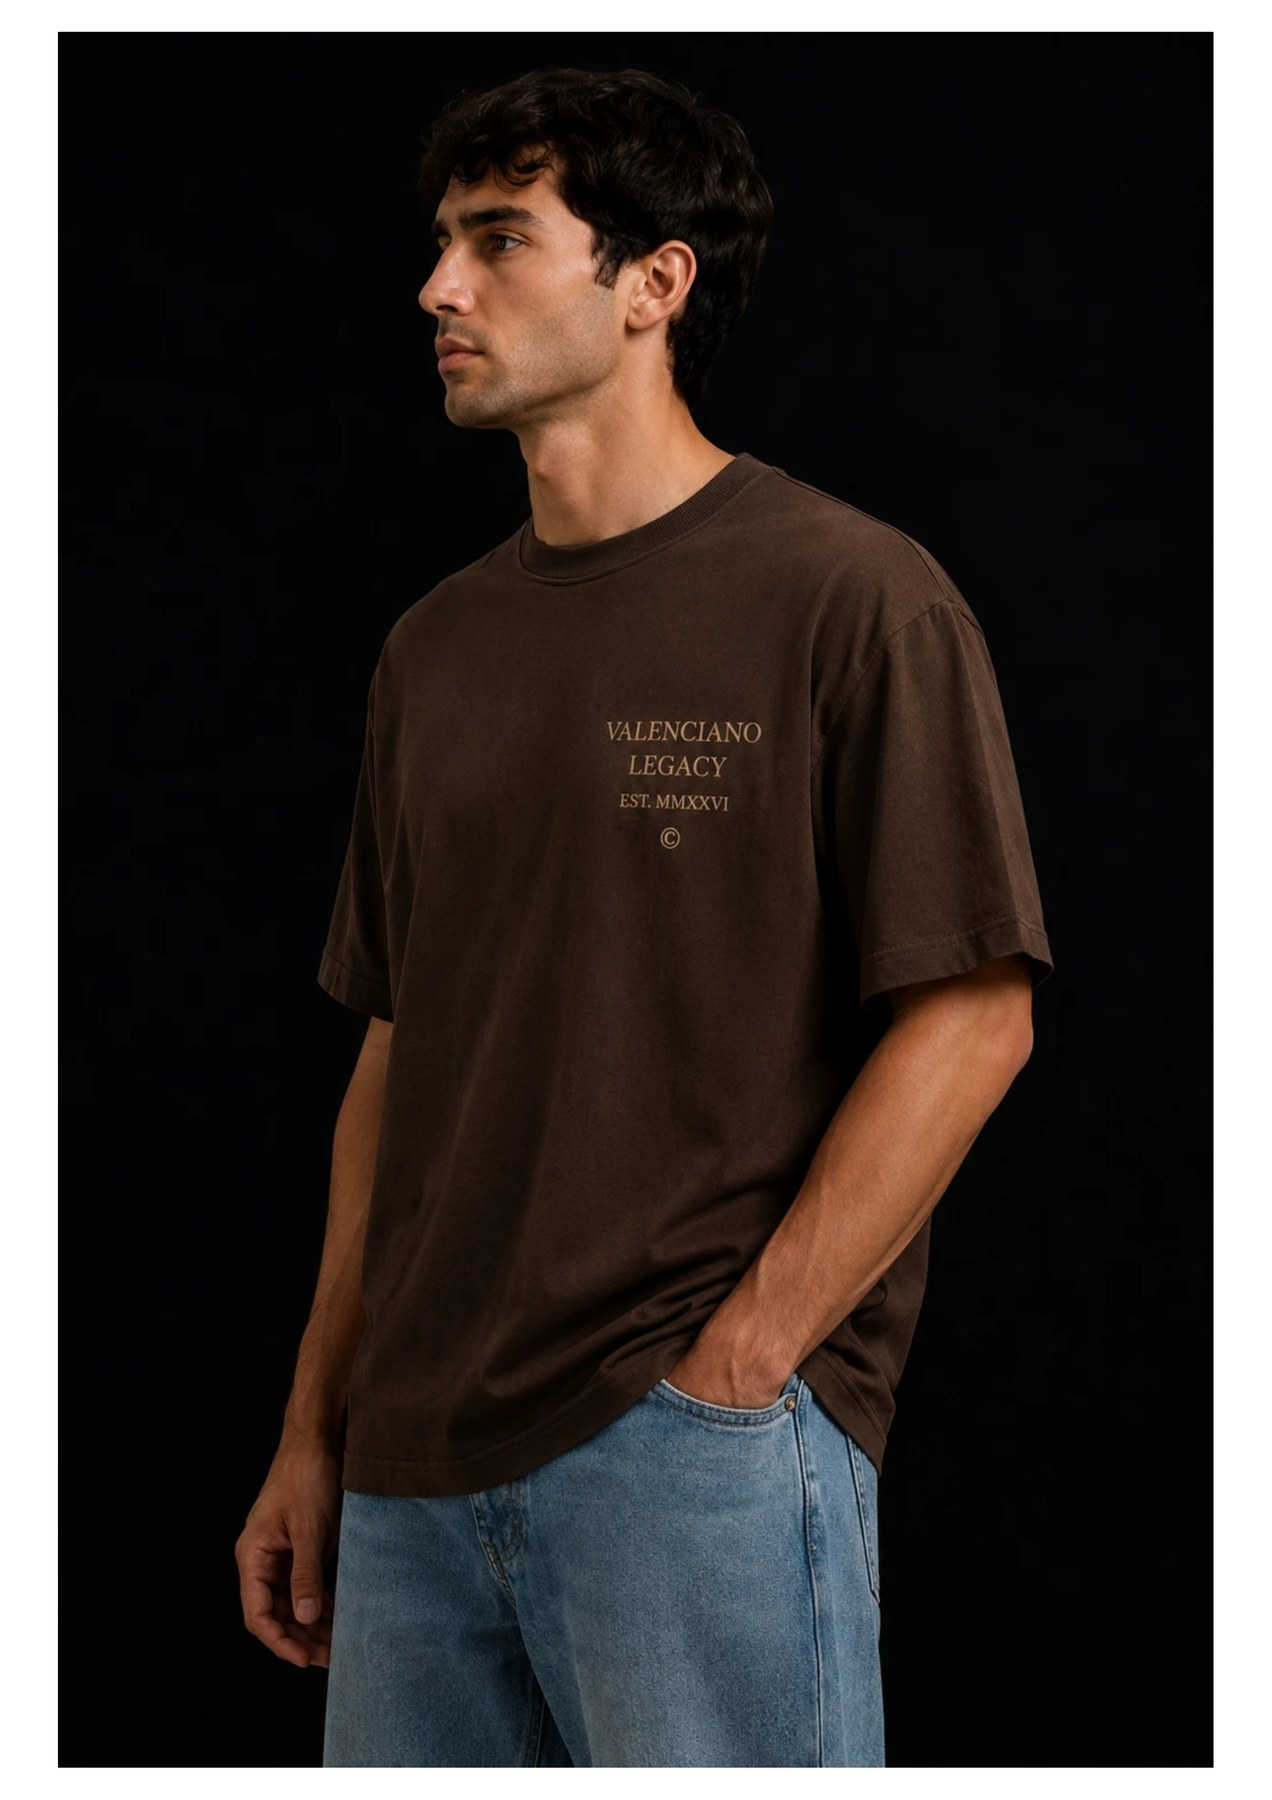
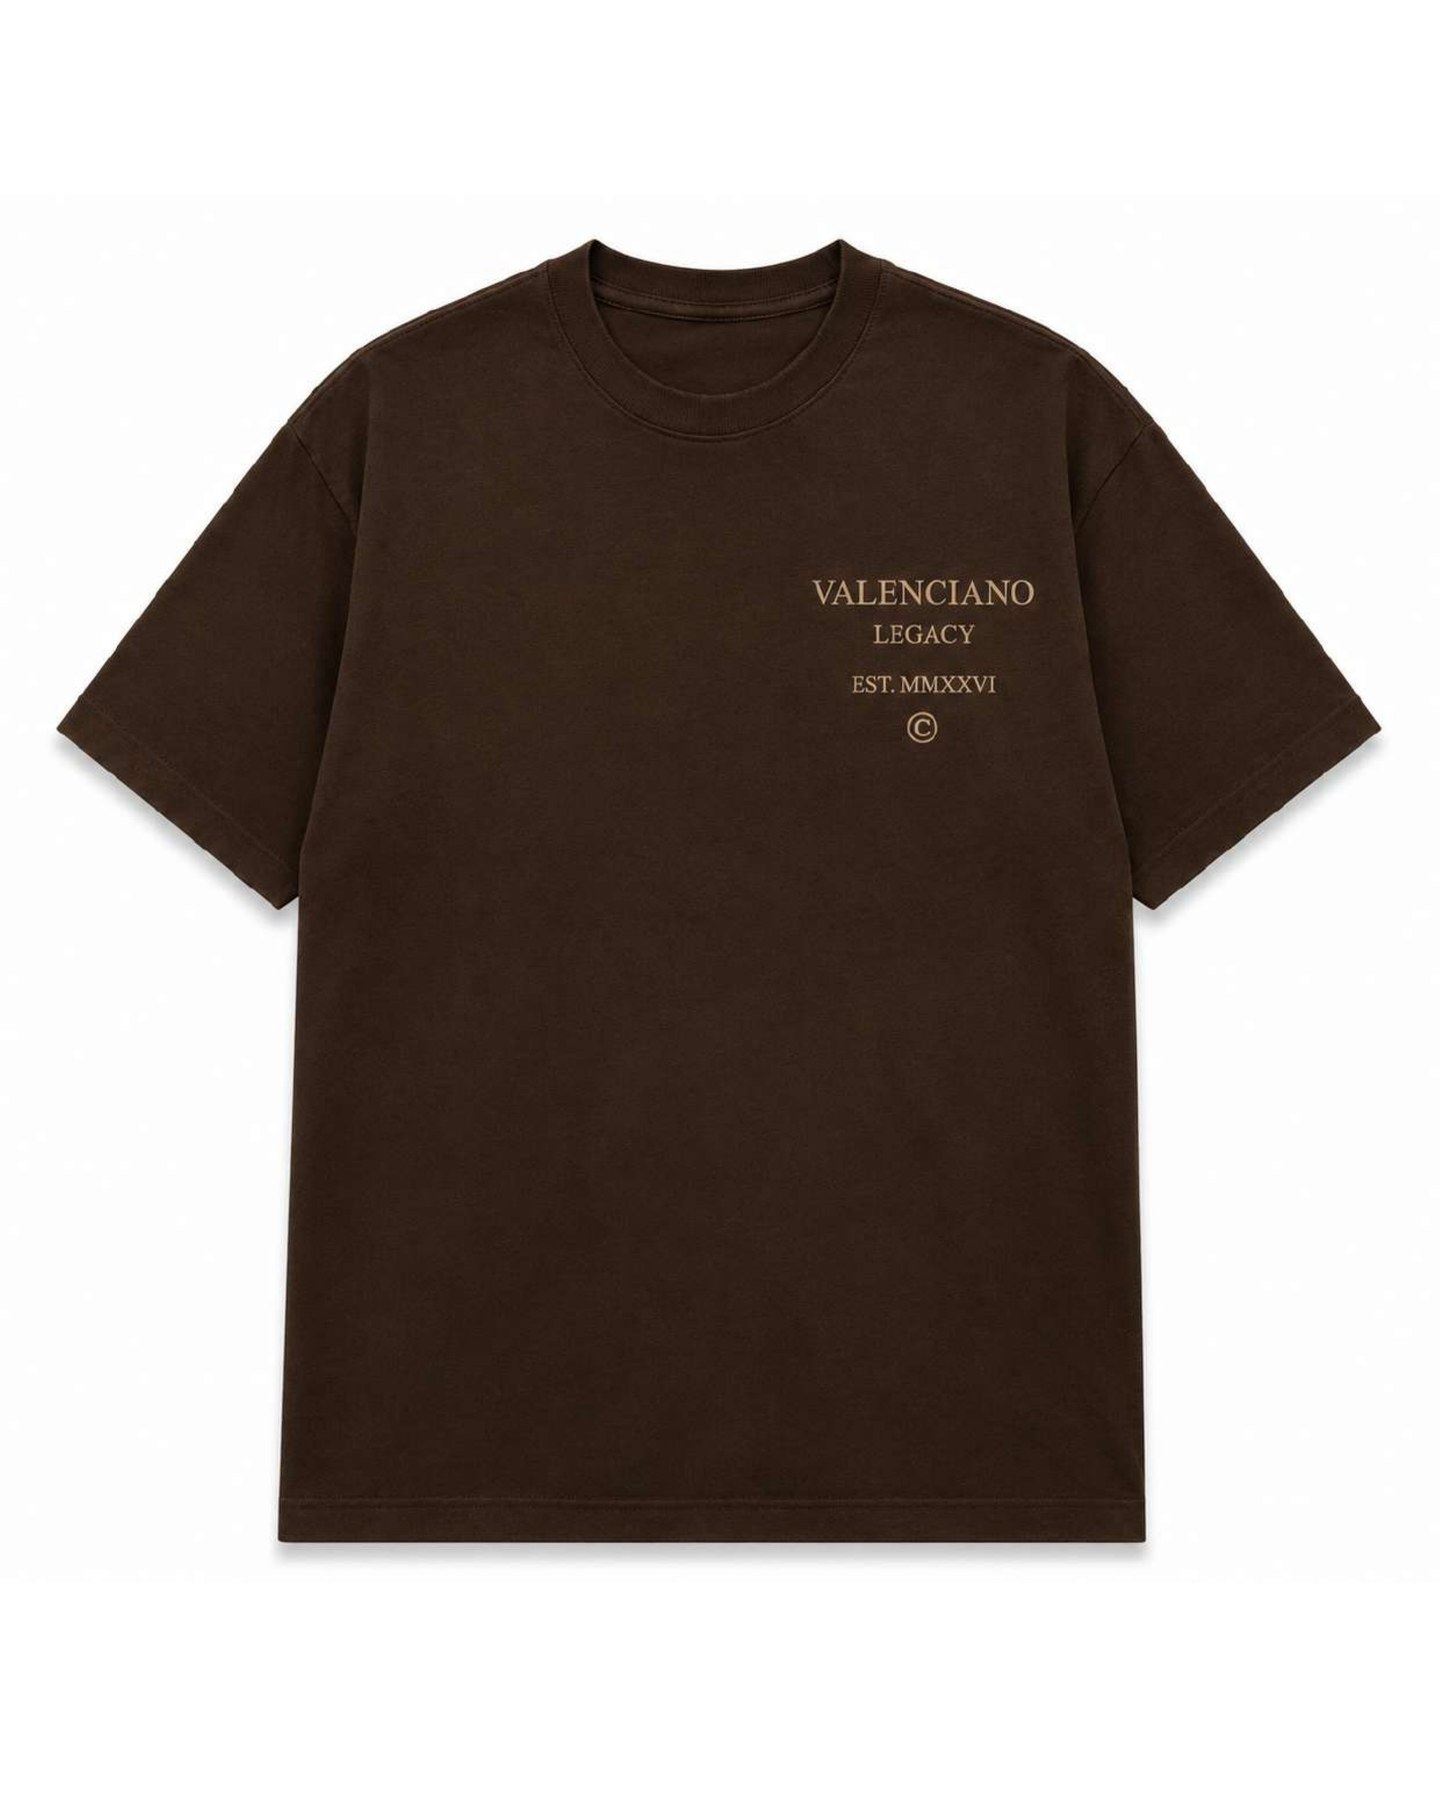
fix: correct Oversize 300 sizes and replace incorrect product photos
- Oversize 300 GSM no longer offers XS (removed from sizes and
  sizeChart) — that size is not being stocked for this line.
- Origin Arena: the two gallery images were the same front flat-lay
  photo at different crops. Replaced with the client-provided source
  (front + a genuinely distinct back/collar detail shot), corrected
  the alt text and role, and fixed coverImage plus the Origin page's
  hardcoded hero image reference which pointed at the old duplicate.
- Legacy Chocolate: replaced the old model photos with the new
  client-provided flat-lay set (front, back graphic print, collar
  detail, fabric/label detail) — 4 images instead of 2.

diff --git a/src/data/products.ts b/src/data/products.ts
@@ -512,9 +512,8 @@ export const PRODUCTS: Product[] = [
       "Cuello en rib",
       "No se encoge, no se deforma",
     ],
-    sizes: ["XS", "S", "M", "L", "XL"],
+    sizes: ["S", "M", "L", "XL"],
     sizeChart: [
-      { size: "XS", chestCm: 58, lengthCm: 75 },
       { size: "S", chestCm: 59, lengthCm: 77 },
       { size: "M", chestCm: 63, lengthCm: 78 },
       { size: "L", chestCm: 65, lengthCm: 80 },
@@ -598,12 +597,12 @@ export const PRODUCTS: Product[] = [
     colorsLinea: ["arena"],
     colorsTemporada: [],
     imageFolder: "/products/origin-arena",
-    coverImage: "/products/origin-arena/arena-1.jpg",
+    coverImage: "/products/origin-arena/arena-2.jpg",
     retailPrice: 138900,
     media: {
       arena: [
         { src: "/products/origin-arena/arena-2.jpg", alt: "Origin Arena VALENCIANO ORIGIN — vista frontal", role: "front" },
-        { src: "/products/origin-arena/arena-1.jpg", alt: "Origin Arena VALENCIANO ORIGIN — modelo, vista frontal", role: "model" },
+        { src: "/products/origin-arena/arena-1.jpg", alt: "Origin Arena VALENCIANO ORIGIN — detalle de cuello, vista posterior", role: "detail" },
       ],
     },
   },
@@ -640,7 +639,9 @@ export const PRODUCTS: Product[] = [
     media: {
       chocolate: [
         { src: "/products/legacy-chocolate/chocolate-1.jpg", alt: "Legacy chocolate — frente", role: "front" },
-        { src: "/products/legacy-chocolate/chocolate-2.jpg", alt: "Legacy chocolate — espalda", role: "back" },
+        { src: "/products/legacy-chocolate/chocolate-2.jpg", alt: "Legacy chocolate — espalda, estampado Valenciano Legacy", role: "back" },
+        { src: "/products/legacy-chocolate/chocolate-3.jpg", alt: "Legacy chocolate — detalle de cuello", role: "detail" },
+        { src: "/products/legacy-chocolate/chocolate-4.jpg", alt: "Legacy chocolate — detalle de tela y estampado", role: "detail" },
       ],
     },
   },

diff --git a/src/app/origin/page.tsx b/src/app/origin/page.tsx
@@ -32,7 +32,7 @@ export default function OriginPage() {
         >
           <div className="relative h-[85%] w-[85%]">
             <Image
-              src="/products/origin-arena/arena-1.jpg"
+              src="/products/origin-arena/arena-2.jpg"
               alt="Origin — Legacy Of Luxury, color arena"
               fill
               preload
